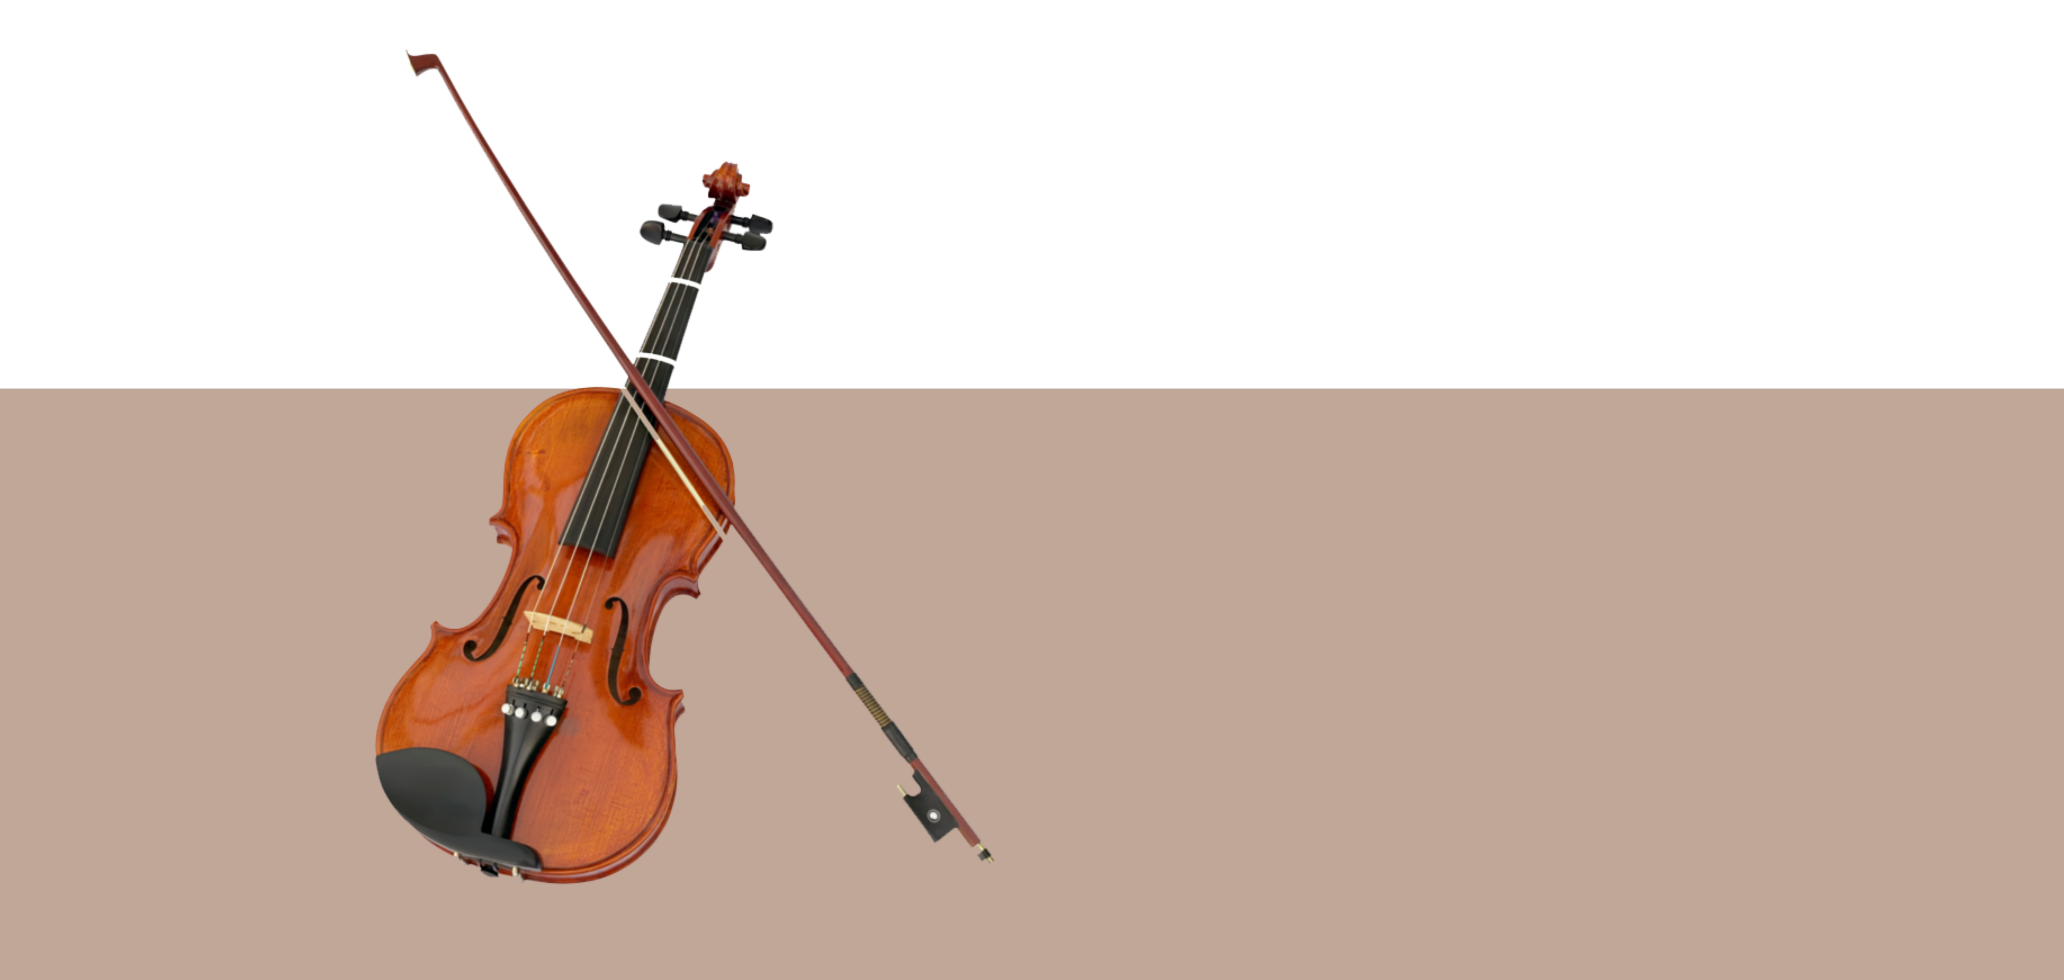
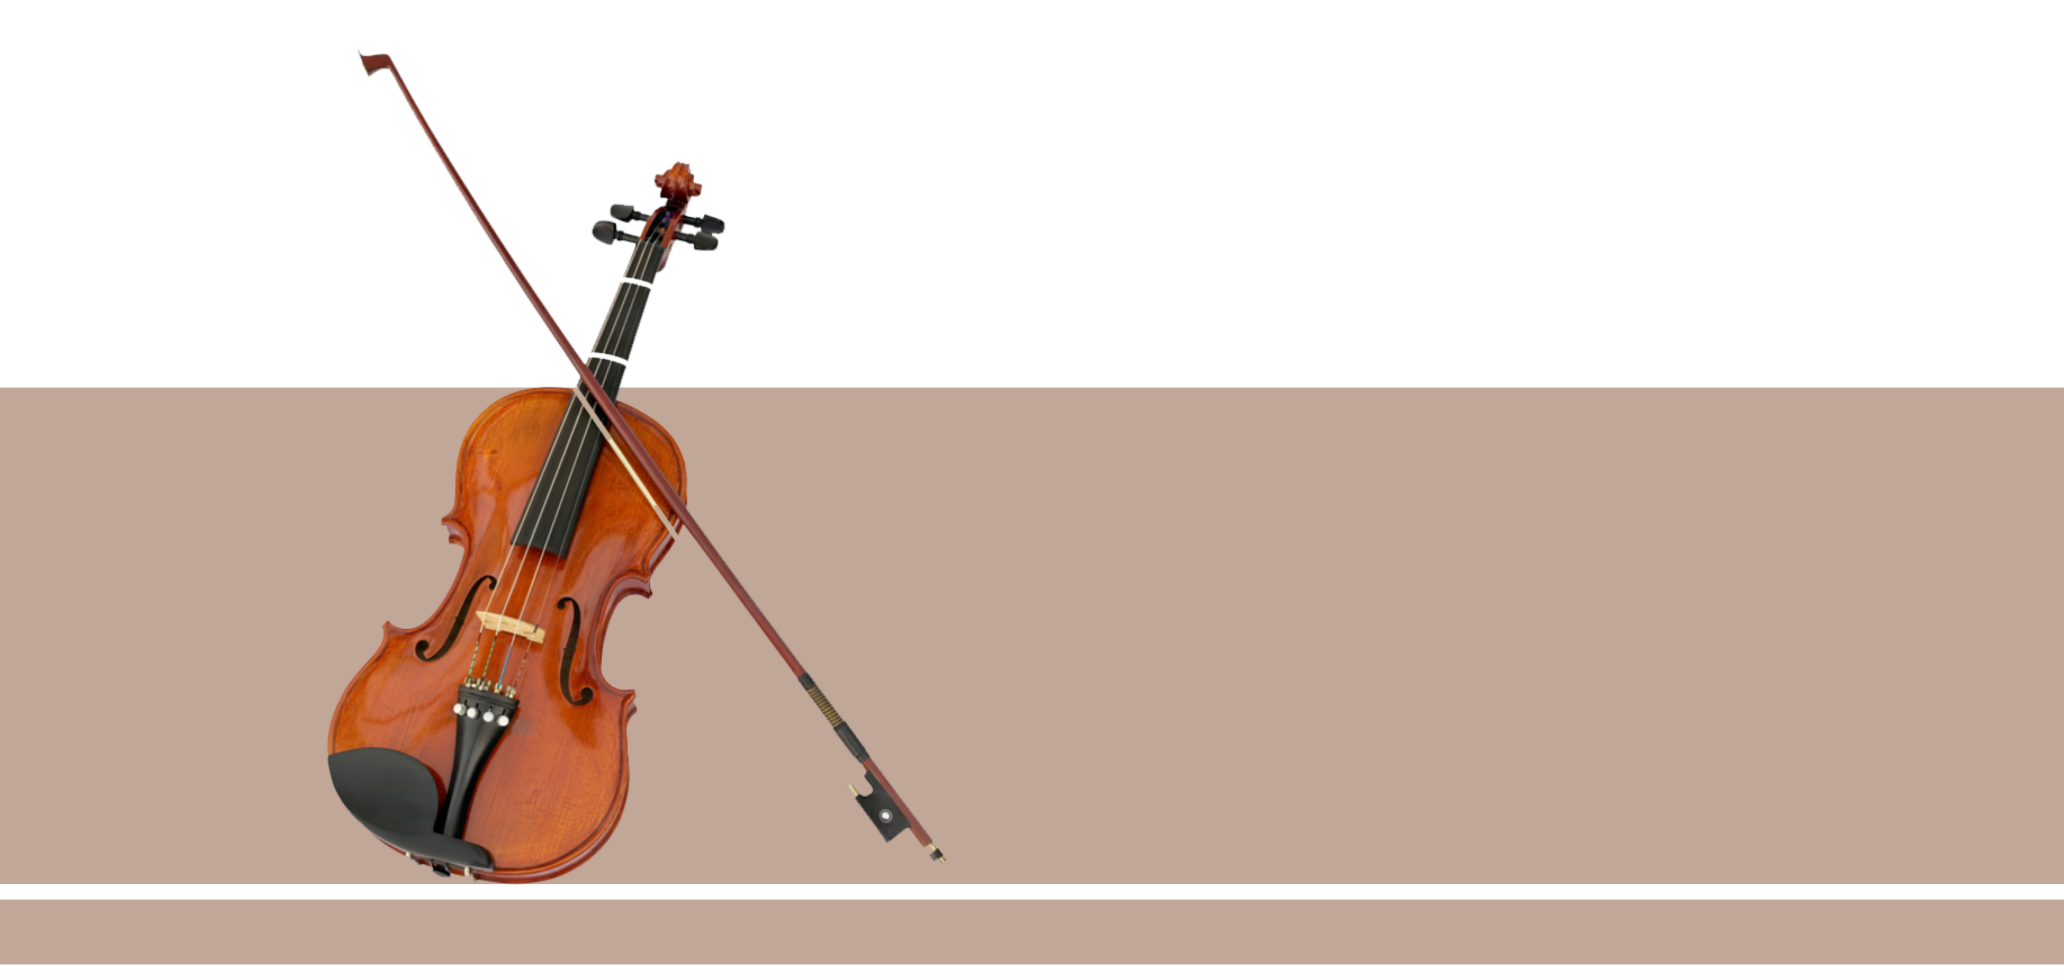
Homepage edited, Quiz section styled, Example element added, mobile view adjusted

Changed region(s): [[0.0, 0.0306, 1.0, 0.9184], [0.0, 0.9796, 1.0, 1.0]]

diff --git a/index.html b/index.html
@@ -7,6 +7,8 @@
 
     <!-- Google Fonts -->
     <link href="https://fonts.googleapis.com/css2?family=Gotu&display=swap" rel="stylesheet">
+    <!-- Font Awesome -->
+    <script src="https://kit.fontawesome.com/8ec1dbc2f2.js" crossorigin="anonymous"></script>
     <!-- Bootstrap CSS -->
     <link rel="stylesheet" href="https://stackpath.bootstrapcdn.com/bootstrap/4.4.1/css/bootstrap.min.css" 
     integrity="sha384-Vkoo8x4CGsO3+Hhxv8T/Q5PaXtkKtu6ug5TOeNV6gBiFeWPGFN9MuhOf23Q9Ifjh" crossorigin="anonymous">
@@ -42,7 +44,7 @@
 			<div class="col align-self-center mb-5">
 				<div class="align">
 					<h1 class="bigfont textshadow"><strong>MUSICAL INSTRUMENTS</strong></h1>
-					<h3>The Voices of Music</h3>
+					<h4>The Voices of Music</h4>
 				</div>
                 <div class="row mt-5">
                     <div class="col">
@@ -53,14 +55,13 @@
                         </div>
                     </div>
                 </div>
-                <div class="border mt-5">
-                </div>
+
 				<div class="row textshadow" id="homepagelinks">
 					<div class="col align-self-center">
 						<ul>
-							<li class="mt-5"><a href="#second">Evolution of Instruments</a></li>
-							<li class="mt-5"><a href="#examples">Instrument Families</a></li>
-							<li class="mt-5"><a href="#fourth">Quiz</a></li>
+							<li class="mt-5"><a href="#second"><i class="far fa-arrow-alt-circle-right"></i> Evolution of Instruments</a></li>
+							<li class="mt-5"><a href="#examples"><i class="far fa-arrow-alt-circle-right"></i> Instrument Families</a></li>
+							<li class="mt-5"><a href="#fourth"><i class="far fa-arrow-alt-circle-right"></i> Go To Quiz</a></li>
 						</ul>
 					</div>
 				</div>
@@ -179,6 +180,17 @@
 										</div>
 									</li>
 		
+                                    <li>
+										<div class="content">
+											<h3>Saxophone</h3>
+											<p> The saxophone was designed around 1840 by Adolphe Sax, a Belgian instrument maker, flautist, and clarinetist.
+                                            The saxophone first gained popularity in military bands. </p>
+										</div>
+										<div class="time">
+											<h4>1,840</h4>
+										</div>
+									</li>
+
 									<li>
 										<div class="content">
 											<h3>Modern Guitar</h3>
@@ -312,7 +324,7 @@
             </div>
 			<div class="col-sm">
 				<figure>
-					<img src="/images/saxophone.png">
+					<img id="brassimg" src="/images/french.png">
 					<figcaption class="mt-5">Brass</figcaption>
 				</figure>
 			</div>
@@ -326,6 +338,12 @@
                 <figure>
 				    <img id="piccimg" src="/images/flute.png">
                     <figcaption class="mt-5">Woodwind</figcaption>
+                </figure>
+			</div>
+            <div class="col-sm">
+                <figure>
+				    <img id="thereminimg" src="/images/theremin.png">
+                    <figcaption class="mt-5">Electronic</figcaption>
                 </figure>
 			</div>
 		</div>
@@ -358,7 +376,7 @@
                         </div>
         
                     </div>
-                    <div class="row" id="next"><span id="nextButton">next</span></div>
+                    <div class="row" id="next"><span id="nextButton">Next</span></div>
                     <div class="row">
                         <div class="col" id="table">
                             <div id="score"></div>
@@ -431,6 +449,33 @@
                                         </td>
                                         <td>
                                             <p class="correctAnswer" value=6></p>
+                                        </td>
+                                    </tr>
+                                    <tr class="row1" name=7>
+                                        <td>What is the first known musical instrument?</td>
+                                        <td>
+                                            <p class="userAnswer" value=7></p>
+                                        </td>
+                                        <td>
+                                            <p class="correctAnswer" value=7></p>
+                                        </td>
+                                    </tr>
+                                    <tr class="row1" name=8>
+                                        <td>When was violin developed into today's shape?</td>
+                                        <td>
+                                            <p class="userAnswer" value=8></p>
+                                        </td>
+                                        <td>
+                                            <p class="correctAnswer" value=8></p>
+                                        </td>
+                                    </tr>
+                                    <tr class="row1" name=9>
+                                        <td>What kind of bodies did first versions of electric guitar have?</td>
+                                        <td>
+                                            <p class="userAnswer" value=9></p>
+                                        </td>
+                                        <td>
+                                            <p class="correctAnswer" value=9></p>
                                         </td>
                                     </tr>
                                 </tbody>

diff --git a/style.css b/style.css
@@ -9,7 +9,13 @@ body {
 
 
 .navbar {
-    background-color: rgba(32, 12, 0, 0.452) !important;
+    background-color: rgba(65, 26, 1, 0.315) !important;
+}
+.nav-item {
+    color: white !important;
+}
+.nav-item:hover {
+     color:rgb(202, 202, 202) !important;
 }
 
 .border {
@@ -28,15 +34,15 @@ ul {
 
 a:hover {
     text-decoration: none;
-    color: #999 !important;
+    color: rgb(202, 202, 202) !important;
 }
 
 #homepagelinks {
     height: 250px;
     font-size: 35px;
     text-align: right;
-    margin-top: 80px;
-    margin-right: 40px;
+    margin-top: 30px;
+    margin-right: 100px;
     margin-bottom: 100px;
 }
 
@@ -70,10 +76,11 @@ a:hover {
 
 #homepg-txt {
     float: right;
-    height: 100px;
-    background-color: rgba(189, 164, 143, 0.603);
+    height: 75px;
+    background-color: rgba(100, 85, 73, 0.288);
+    color: white;
     border-radius: 7px;
-    padding: 15px;
+    padding: 30px;
     margin-right: 20px;
 }
 
@@ -95,7 +102,8 @@ a:hover {
 #third img {
     padding-top: 50px;
     height: 500px;
-    width: 200px;
+    width: 100px;
+    
 }
 
 #third .col-sm:hover {
@@ -103,24 +111,33 @@ a:hover {
 }
 
 #keysimg {
-    width: 400px;
+    width: 250px !important;
     height: 400px !important;
 }
 #timpimg {
-    width: 400px;
+    width: 250px !important;
     height: 400px !important;
 }
 #piccimg {
-    width: 350px !important;
-    height: 400px !important;
+    width: 250px !important;
+    height: 380px !important;
 }
 #guitimg {
     width: 250px !important;
     height: 450px !important;
 }
+#brassimg {
+    width: 250px !important;
+    height: 330px !important;
+}
+#thereminimg {
+    width: 250px !important;
+    height: 350px !important;
+}
 
 #examples-text {
     font-size: 25px;
+    padding-bottom: 23px;
 }
 #examples {
     background-color: rgba(187, 90, 25, 0.2);
@@ -143,7 +160,7 @@ a:hover {
     
 }
 #quiz {
-    height: 600px;
+    height: 800px;
     width: 100%;
     text-align: center;
 }
@@ -189,6 +206,7 @@ a:hover {
 #questions {
     font-size: 30px;
     padding-bottom: 10px;
+    margin-top: 200px;
    
 }
 .pickone {
@@ -426,6 +444,9 @@ th {
     float: none;
     margin-right: 5px;
     padding-bottom: 100px;
+}
+#homepg-txt {
+   height: 100px; 
 }
 .align {
     text-align: center;

diff --git a/scripts/script.js b/scripts/script.js
@@ -26,6 +26,18 @@ var quiz = [{
     question: "7.) Which instrument generally produces the highest pitch?",
     answers: ["Cello", "Piccolo", "Bassoon", "French Horn"],
     correctAnswer: 1
+  }, {
+    question: "8.) What is the first known musical instrument?",
+    answers: ["Flute", "Drum", "Lyre", "Saxophone"],
+    correctAnswer: 0
+  }, {
+    question: "9.) When was violin developed into today's shape?",
+    answers: ["10.st", "14.st", "16.st", "19.st"],
+    correctAnswer: 2
+  }, {
+    question: "10.) What kind of bodies did first versions of electric guitar have?",
+    answers: ["Solid", "Transparent", "Plastic", "Hollow"],
+    correctAnswer: 3
   }]
   
   var i = 0;
@@ -63,7 +75,7 @@ var quiz = [{
         }
         i++;
   
-        if (i < 7) {
+        if (i < 10) {
             $('.choices').css('display', 'none');
             $('#questions').text(quiz[i].question);
             $('#zero').text(quiz[i].answers[0]);
@@ -74,11 +86,11 @@ var quiz = [{
             $('input[name="answers"]').prop('checked', false);
   
         }
-        if (i > 6) {
+        if (i > 9) {
   
             $('#quiz').remove();
             $('#next').remove();
-            $('#score').text("You have completed the quiz, your score is " + score + "/7");
+            $('#score').text("You have completed the quiz, your score is " + score + "/10");
             $('#results').show('2000');
             $("#reset").show();
         }
